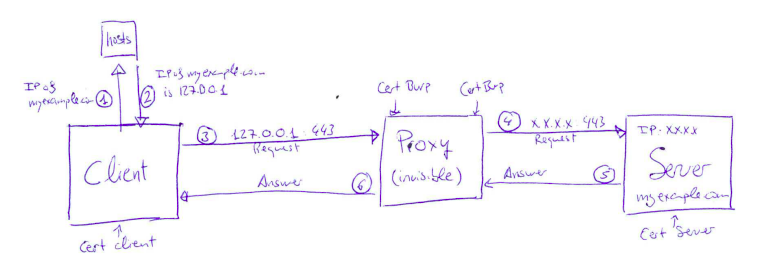
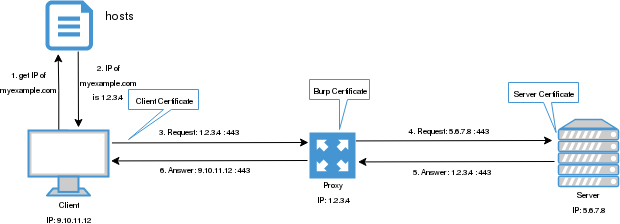
Invisible Proxy

Changed region(s): [[0.0, 0.0, 1.0, 1.0], [0.8274, 0.3438, 0.9194, 0.375], [0.4903, 0.875, 0.5823, 0.9062]]

diff --git a/_posts/2017-11-27-Invisible-Proxy.md b/_posts/2017-11-27-Invisible-Proxy.md
@@ -18,8 +18,8 @@ This option is sometimes useful if the application you are targeting employs a t
 I have made a draw to in order to have a general vision: 
 ![](https://raw.githubusercontent.com/LordATM/lordatm.github.io/master/img/2017-11-27-Invisible-Proxy/draw_proxy.png)
 1. Client asks for the IP of myexample.com
-2. From `hosts` file it takes the IP is 127.0.0.1
-3. Client makes the requests to 127.0.0.1 with port 443
+2. From `hosts` file it takes the IP is 1.2.3.4
+3. Client makes the requests to 1.2.3.4 with port 443
 4. Proxy makes the requests to the server (redirecting the traffic)
 5. Server answers to the proxy
 6. Proxy answers to the client
@@ -51,10 +51,10 @@ In order to redirect the traffic to Burp proxy, you have to edit `hosts` file:
 And we add the following entry:
 
 ```
-127.0.0.1 	myexample.com
+1.2.3.4 	myexample.com
 ```
 
-This change will make that when the machine wants to resolve the host myexample.com, instead of asking it to the DNS, it will resolve as 127.0.0.1. Redirecting all the traffic of example.org to the localhost.
+This change will make that when the machine wants to resolve the host myexample.com, instead of asking it to the DNS, it will resolve as 1.2.3.4. Redirecting all the traffic of example.org to the localhost.
 
 ## Configure Burp
 Once the client is configured, you need to configure the proxy. With Burp you have to change the following options
